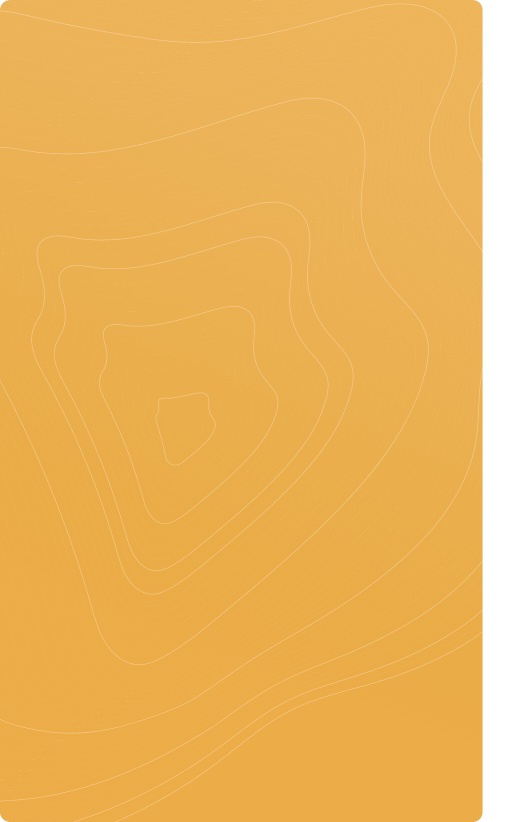
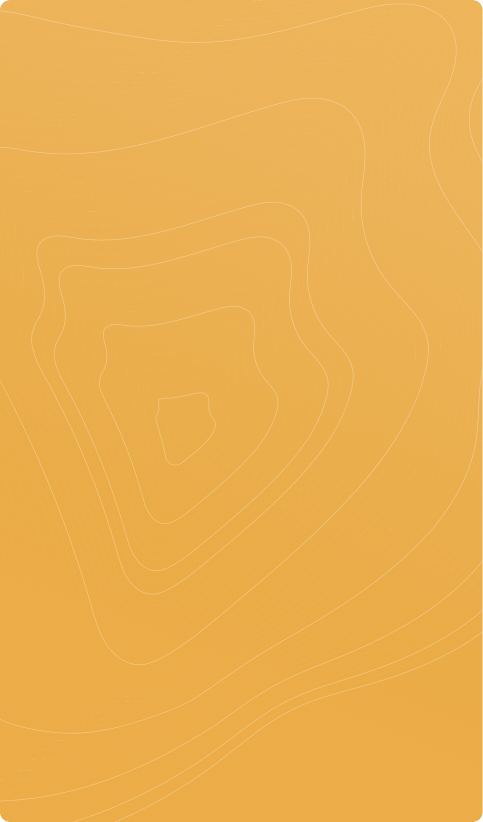
change

diff --git a/css/style.css b/css/style.css
@@ -506,20 +506,22 @@ body {
 @media only screen and (max-device-width: 480px)  {
 	#background-img-first {
 		background: none;
-		margin: auto;
+		margin: auto !important;
 	}
 	#background-img-second {
 		background: none;
-		margin: auto;
+		margin: auto !important;
 	}
 }
 
-/* @media only screen and (max-device-width: 768px){
+@media only screen and (max-device-width: 900px){
 	#background-img-first{
-		margin: auto;
+		background: none;
+		margin: auto !important;
 	}
 
 	#background-img-second{
-		margin: auto;
+		background: none;
+		margin: auto !important;
 	}
-} */
+}
